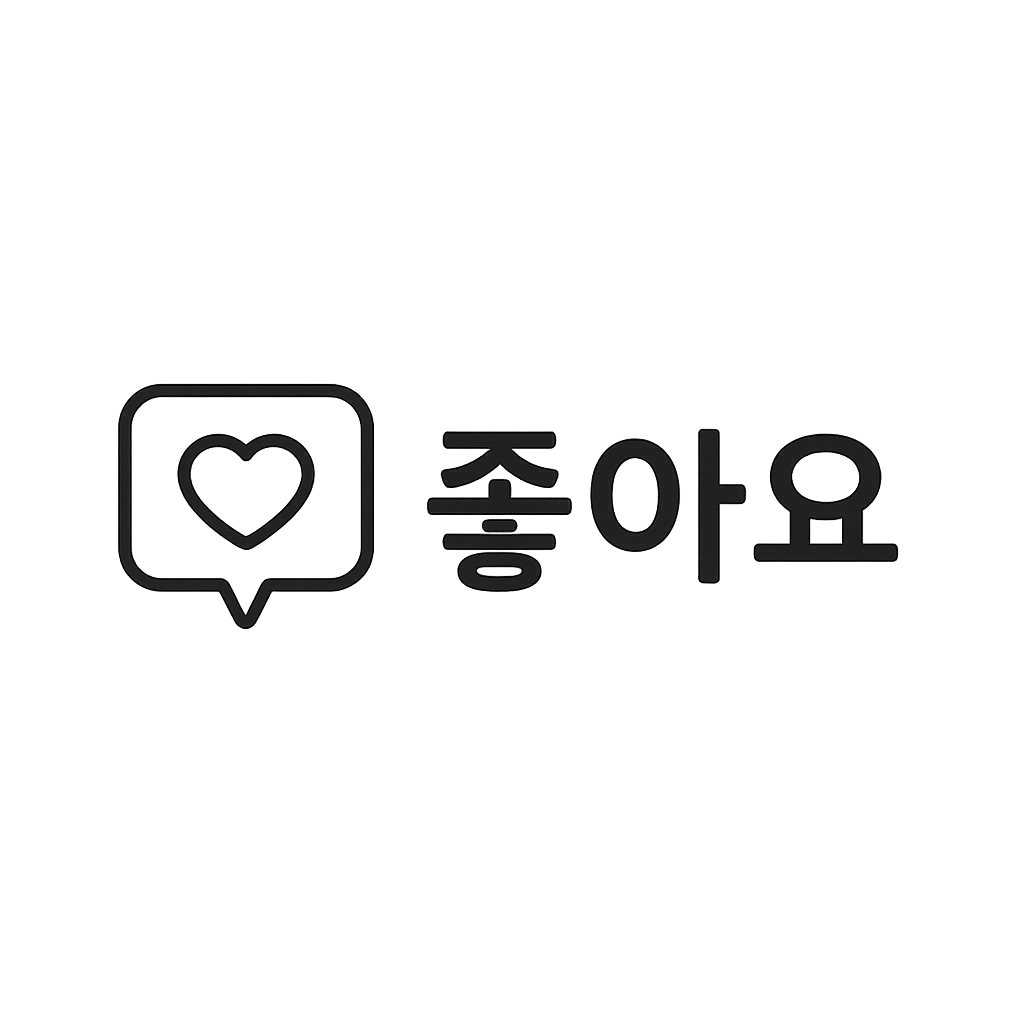
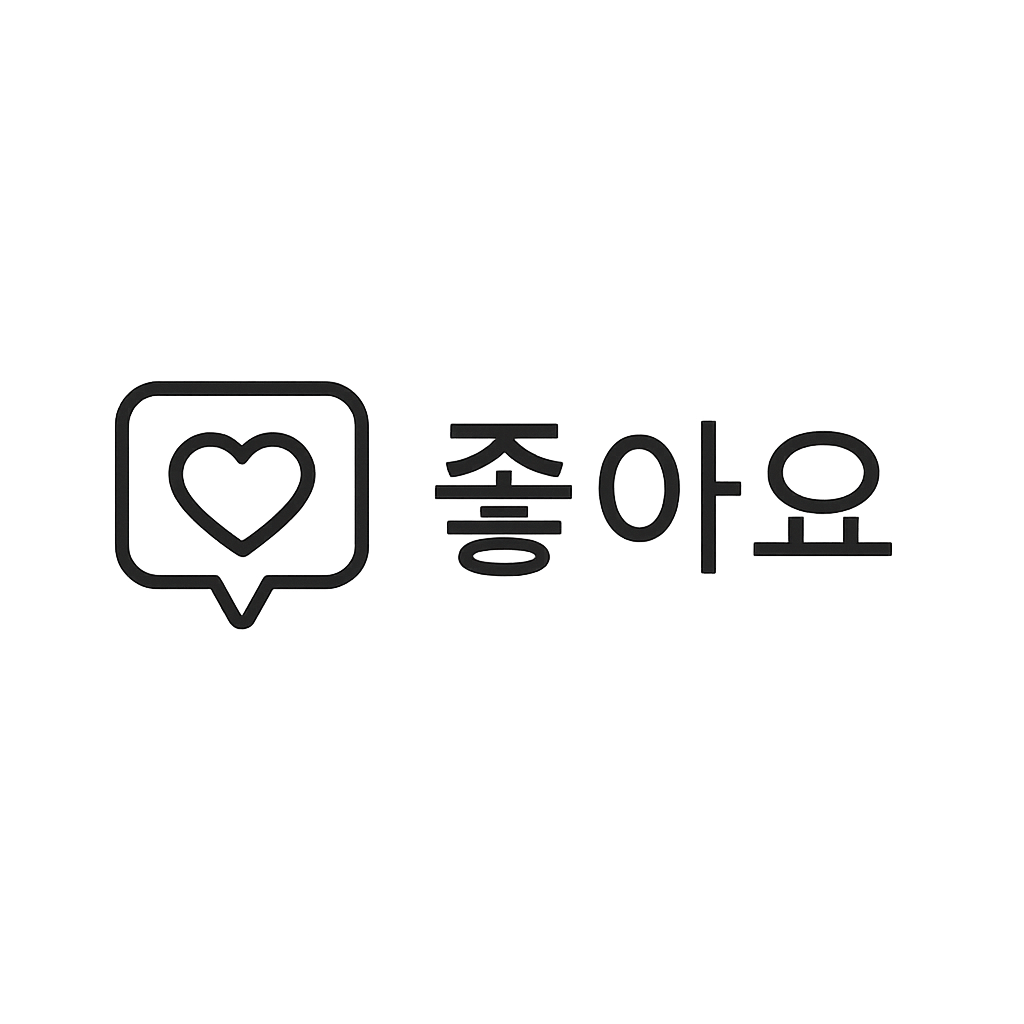
Not Found 이미지 변경

Changed region(s): [[0.4062, 0.4062, 0.875, 0.5938], [0.0938, 0.375, 0.375, 0.625], [0.2812, 0.4375, 0.3125, 0.5]]

diff --git a/carbonlease_react/carbonlease/src/component/Common/NotFound/NotFound.styles.js b/carbonlease_react/carbonlease/src/component/Common/NotFound/NotFound.styles.js
@@ -10,19 +10,18 @@ export const EmptyWrapper = styled.div`
 
 export const EmptyCard = styled.div`
   min-width: 800px;
-  height: 550px;
-  padding: 40px 32px 32px;
+  height: 600px;
   border-radius: 20px;
   box-shadow: 0 10px 30px rgba(0, 0, 0, 0.06);
   text-align: center;
 `;
 
 export const EmptyImage = styled.img`
-  width: 300px;
-  height: 300px;
+  width: 400px;
+  height: 350px;
   object-fit: contain;
-  margin-bottom: 5px;
   filter: drop-shadow(0 10px 6px rgba(0, 0, 0, 0.15));
+  opacity: 0.85;
 `;
 
 export const EmptyTitle = styled.h2`
@@ -38,7 +37,7 @@ export const EmptyText = styled.p`
 `;
 
 export const BackButton = styled.button`
-  padding: 11px 24px;
+  padding: 12px 24px;
   border-radius: 999px;
   border: none;
   cursor: pointer;

diff --git a/carbonlease_react/carbonlease/src/component/ActivityBoard/ActivityBoardDetail/components/LikeButton.jsx b/carbonlease_react/carbonlease/src/component/ActivityBoard/ActivityBoardDetail/components/LikeButton.jsx
@@ -4,7 +4,7 @@ const LikeButton = ({ isLiked, onClick }) => {
   return (
     <StyledButton $liked={isLiked} onClick={onClick}>
       <img 
-        src="/images/Like-icon1.png"
+        src="/images/Like-icon.png"
         alt="like-icon"
         className="like-icon"
       />
